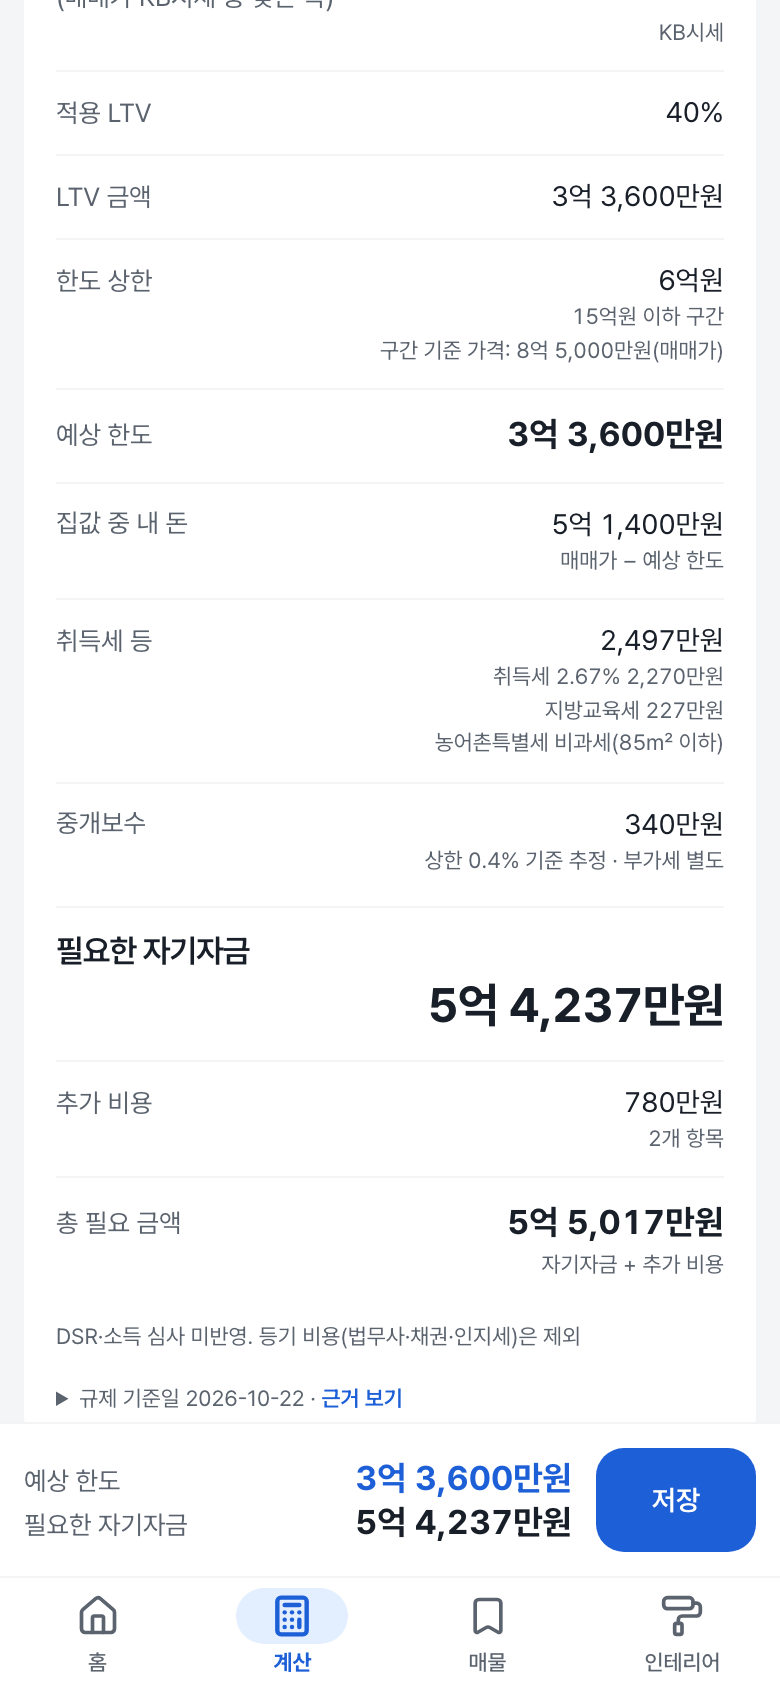
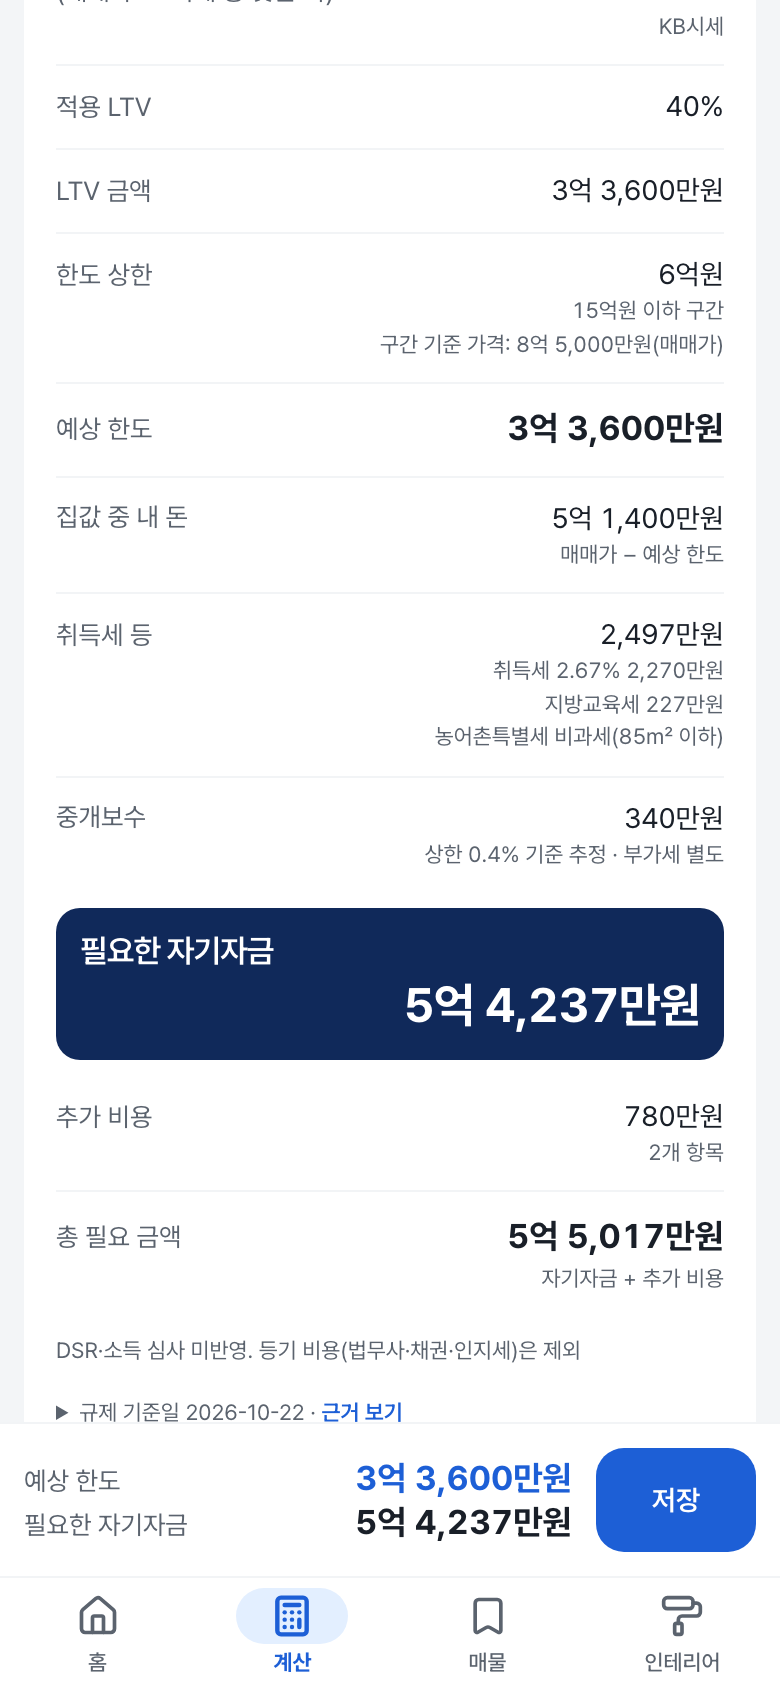
docs: README 화면 사진을 새 디자인으로 다시 찍고 앱 아이콘·묶음 확정 합계 반영

diff --git a/README.md b/README.md
@@ -1,3 +1,5 @@
+<img src="public/apple-touch-icon.png" width="64" alt="모기지핏 앱 아이콘" />
+
 # 모기지핏 (mortgage-fit)
 
 집을 고르는 단계부터 인테리어까지 돈 계산을 한곳에서 하는 휴대폰용 웹앱입니다.
@@ -54,7 +56,7 @@
 
 턴키 없이 공정마다 업체에 따로 맡길 때 견적을 모아 예산을 짜는 화면입니다.
 
-- **공정별 견적 줄**: 구분(철거·도배·욕실 등), 세부내용, 업체, 견적(원), 비고를 한 줄로 적습니다. 같은 구분의 줄은 한 묶음으로 모여 업체 견적을 나란히 비교합니다.
+- **공정별 견적 줄**: 구분(철거·도배·욕실 등), 세부내용, 업체, 견적(원), 비고를 한 줄로 적습니다. 같은 구분의 줄은 한 묶음으로 모여 업체 견적을 나란히 비교합니다. 묶음 제목 오른쪽에 그 묶음의 확정 합계가 보입니다.
 - **확정과 예산**: 고른 견적에 [확정]을 체크하면 확정한 금액만 지출 예정에 더해 총 예산과 남은 예산을 보여 줍니다.
 - **구매 완료**: 돈을 낸 줄에 [완료]를 체크하면 그 금액이 지출 예정에서 빠져 지출 완료로 모입니다. 남은 예산은 총 예산에서 지출 예정과 지출 완료를 뺀 금액입니다. 확정하지 않은 줄에 [완료]를 누르면 함께 확정됩니다.
 - **일정**: 줄마다 시작일과 끝나는 날을 넣으면 목록에서 세부내용 오른쪽에 `11/3~11/7`처럼 보입니다. 하루짜리는 시작일만 넣습니다.

diff --git a/.cony/log.md b/.cony/log.md
@@ -787,3 +787,5 @@
 - 2026-10-30 AI(리드): 구조·문구·코발트 브랜드는 그대로 두고 세 곳만 바꿈. ① 화면마다 돈의 답 하나(홈 대출 계산 카드, 계산 결과의 필요한 자기자금, 인테리어 요약)를 진한 남색 "답 면"(#10295a)에 올림 — 흰 카드가 모두 같은 무게라 답이 묻히던 것을 위계로 정리. ② Vite 기본 번개 아이콘을 집 + 맞음 표시 아이콘으로 바꾸고 머리 줄에 아이콘 + 이름, iPhone 홈 화면 아이콘(180px)·theme-color 추가. ③ 인테리어 [목록|표]를 따로 떨어진 두 버튼에서 한 줄 세그먼트(고른 칸만 흰 면)로, "보기" 라벨은 보조기기에만.
 - 사용자 확인 필요(제품 기본값·화면 취향): ① 답 면 색(진한 남색)과 적용 위치 3곳 ② 앱 아이콘 모양
 - 화면 확인: 로컬 빌드 390px 홈·계산 결과·인테리어 전후 비교. 실기기 홈 화면 아이콘은 미확인
+
+- 2026-10-30 요청: "README 갱신" → 화면 사진 5장(홈·계산 결과·매물·실거래가·인테리어)을 운영 주소에서 새 디자인으로 다시 찍음(인쇄 사진은 표가 그대로라 유지). 맨 위에 앱 아이콘, 인테리어 설명에 묶음 확정 합계 한 문장 추가

diff --git a/.cony/board.md b/.cony/board.md
@@ -1,6 +1,6 @@
 # 업체 미정 · 우리 집 줄 끌어 옮기기(2단계 배포)
 
-> 상태: 완료 · 마지막 업데이트: 2026-10-30 13:28
+> 상태: 완료 · 마지막 업데이트: 2026-10-30 16:10
 
 ## 태스크
 
@@ -41,7 +41,7 @@
 
 ## PR
 
-[#57](https://github.com/hwanyoungChoi/mortgage-fit/pull/57) · CI 통과 · 머지됨(b6f97c4)
+[#58](https://github.com/hwanyoungChoi/mortgage-fit/pull/58) · CI 통과 · 머지됨(ac96847)
 
 <!-- spec: specs/interior-vendor-tbd-line-order.md -->
 <!-- lead: local_87d4390f-e2ba-4e87-a5d7-a3648355a974 -->
